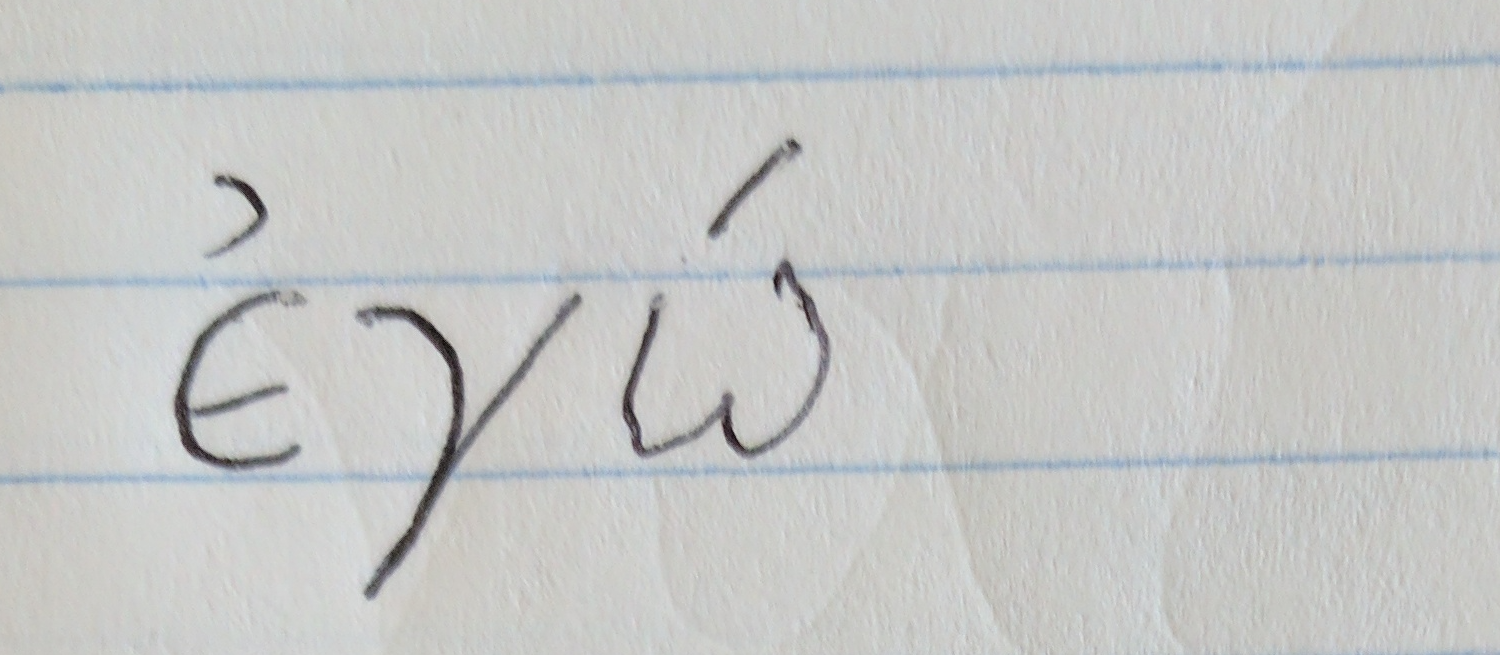
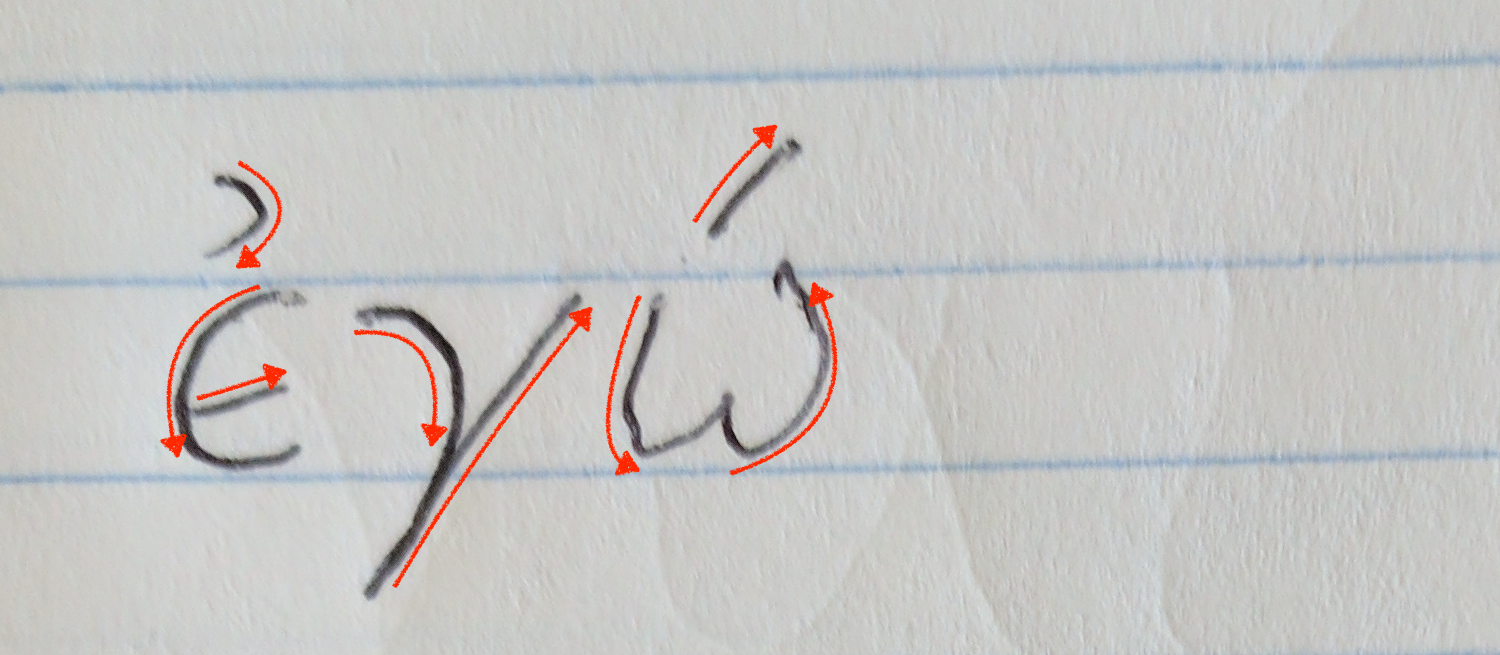
Updated images and added writing for lesson 3.

diff --git a/handouts/03_practice.md b/handouts/03_practice.md
@@ -1,0 +1,36 @@
+<h1>Student Practice for Lesson Three</h1>
+
+<h2>Copy the following words:</h2>
+<img src="images/mou.png" style="width:150px"><img src="images/sou.png" style="width:150px"><img src="images/autou.png" style="width:190px"><img src="images/auths.png" style="width:190px">
+<table>
+  <tr>
+    <td>
+    <ol style="font-size:150%">
+      <li>ἐγώ <img src="images/blankline.jpeg"></li>
+      <li>σύ <img src="images/blankline.jpeg"></li>
+      <li>αὐτός <img src="images/blankline.jpeg"></li>
+      <li>αὐτῆ <img src="images/blankline.jpeg"></li>
+    </ol>
+    </td>
+    <td>
+    <ol style="font-size:150%">
+      <li>μου <img src="images/blankline.jpeg"></li>
+      <li>σου <img src="images/blankline.jpeg"></li>
+      <li>αὐτοῦ <img src="images/blankline.jpeg"></li>
+      <li>αὐτῆς <img src="images/blankline.jpeg"></li>
+    </ol>
+    </td>
+  </tr>
+</table>
+<h2>Write <em>μου, σου, αὐτοῦ,</em> or <em>αὐτῆς</em> in the blank, depending on which makes best sense:</h2>
+
+
+The first sentence should include your own name.
+
+<ol style="font-size:200%">
+  <li>τὸ ὄνομά <img src="images/blankline.jpeg">, <img src="images/blankline.jpeg"> ἐστιν.</li>
+  <li>👩 τὸ ὄνομά <img src="images/blankline.jpeg">, Κυνθία ἐστιν.</li>
+  <li>👨 τὸ ὄνομά <img src="images/blankline.jpeg">, Ἰώαννης ἐστιν.</li>
+  <li>τὸ ὄνομά <img src="images/blankline.jpeg"> Μάρθα ἐστιν.</li>
+  <li>τὸ ὄνομά <img src="images/blankline.jpeg"> Παῦλος ἐστιν.</li>
+</ol>

diff --git a/handouts/01_practice.md b/handouts/01_practice.md
@@ -1,7 +1,5 @@
 <h1>Writing Practice for Lesson One</h1>
 
-
-
 <h2>Copy the following words</h2>
 <img src="images/nai.jpg" style="width:200px;"><img src="images/ou.jpg" style="width:190px;"><img src="images/h.jpg" style="width:150px;"><img src="images/tis.jpg" style="width:200px;">
 <table>
